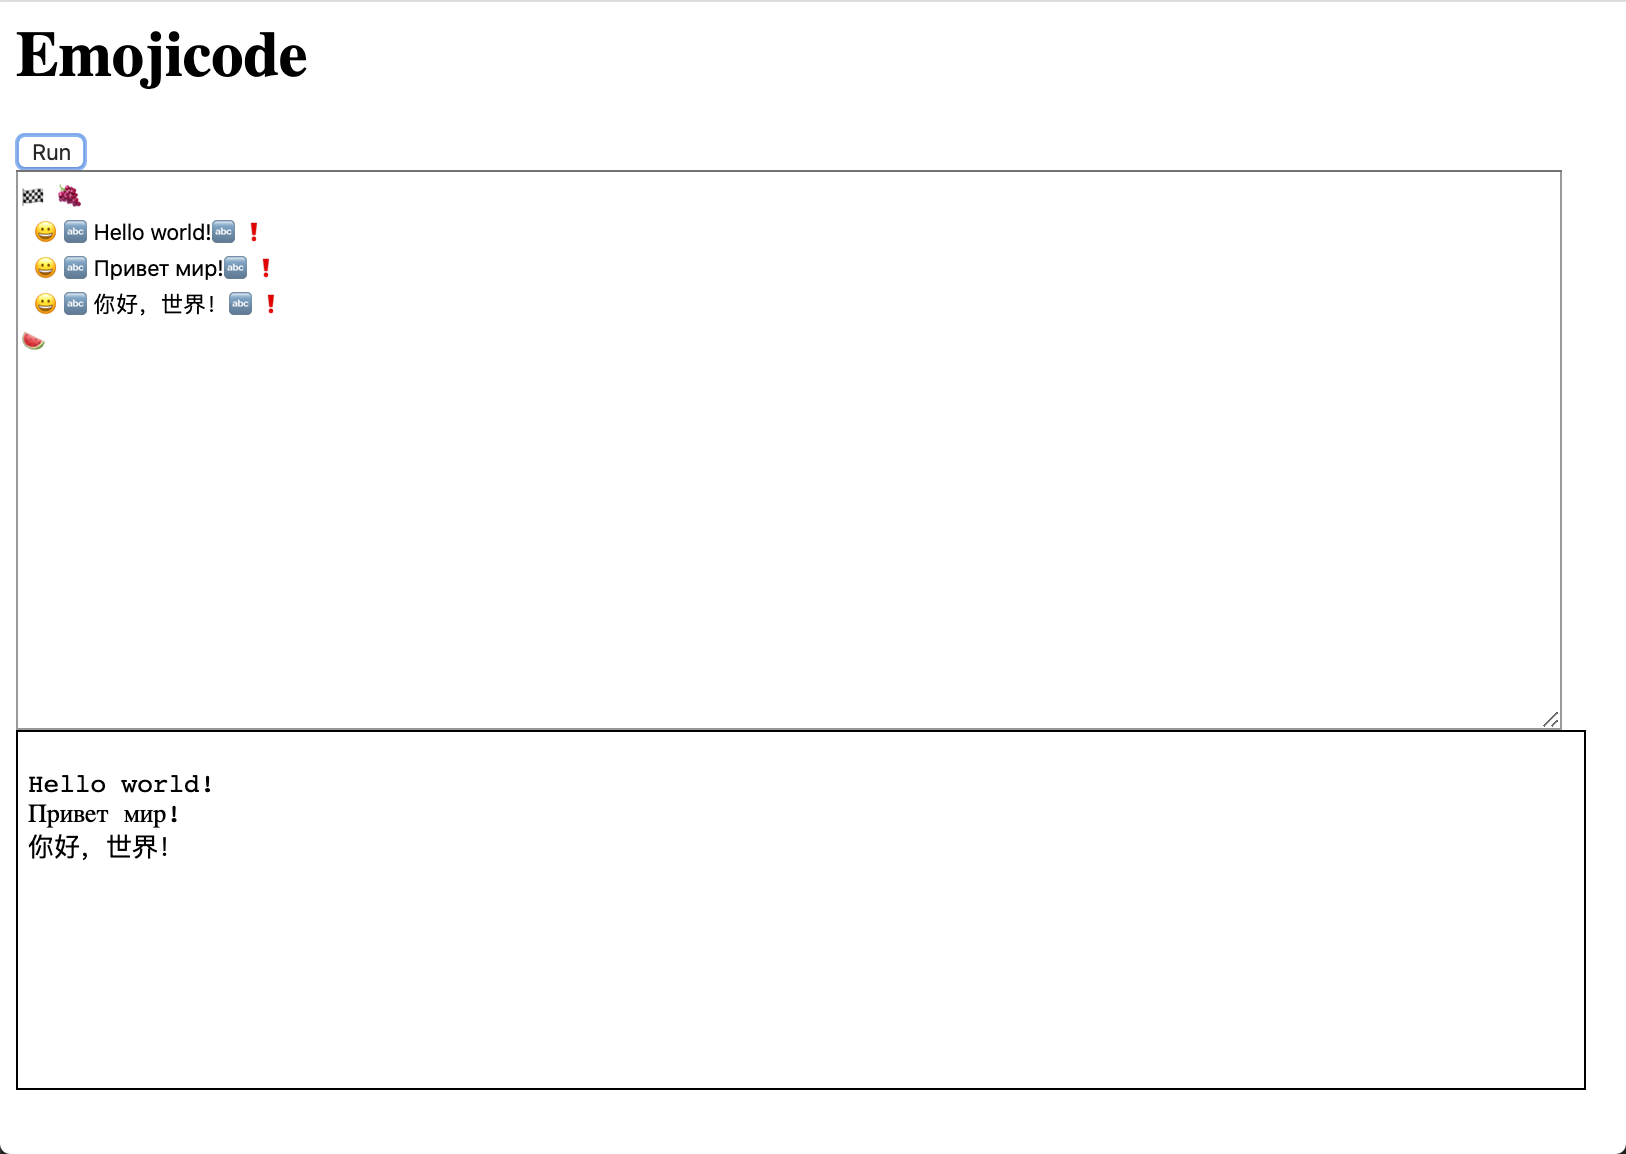
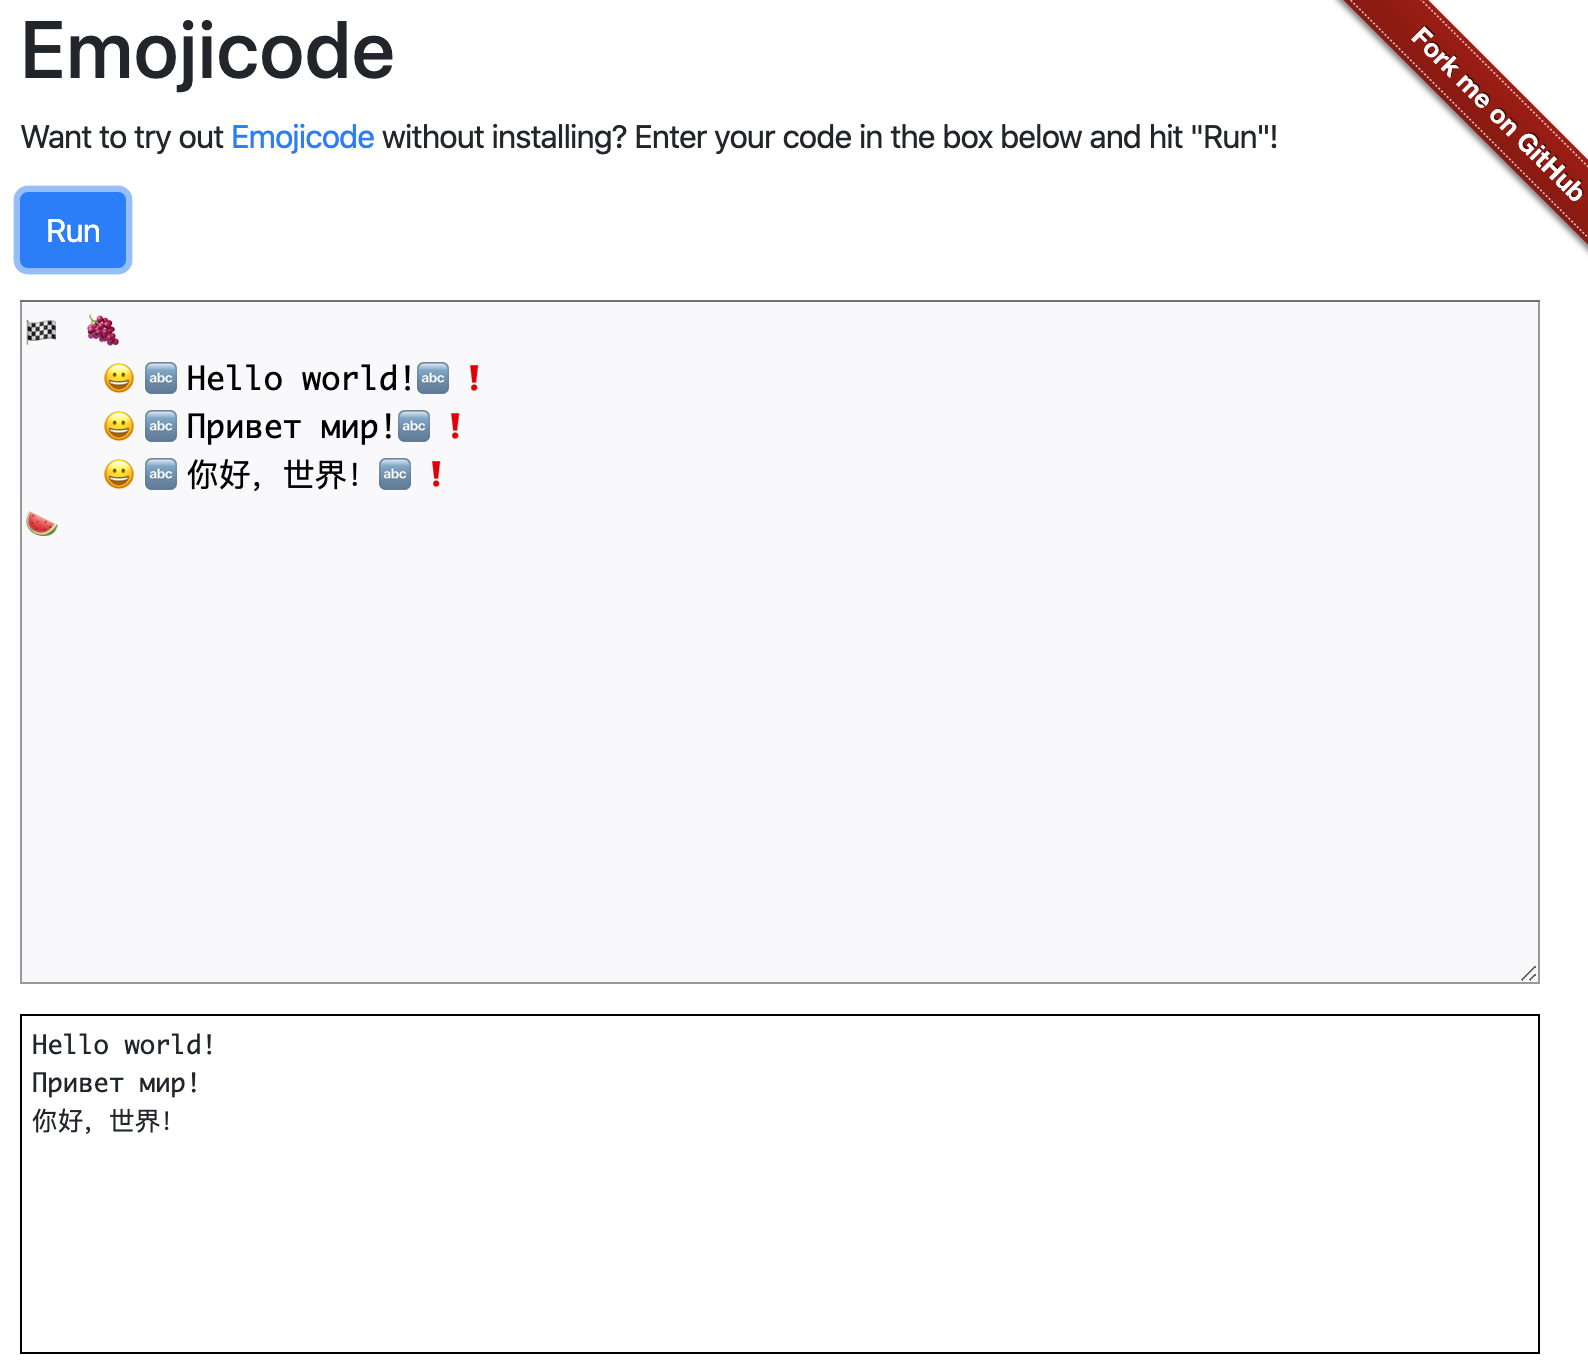
Use Bootstrap for styling.
Update screenshot for README.

Bump to version 0.1.2.

diff --git a/static/index.html b/static/index.html
@@ -1,50 +1,103 @@
 <html>
 <head>
     <title>Emojicode Playground</title>
+    <link rel="stylesheet" href="https://maxcdn.bootstrapcdn.com/bootstrap/4.0.0/css/bootstrap.min.css" integrity="sha384-Gn5384xqQ1aoWXA+058RXPxPg6fy4IWvTNh0E263XmFcJlSAwiGgFAW/dAiS6JXm" crossorigin="anonymous">
     <link rel="stylesheet" href="https://cdnjs.cloudflare.com/ajax/libs/github-fork-ribbon-css/0.2.3/gh-fork-ribbon.min.css" />
-    <script src="https://ajax.googleapis.com/ajax/libs/jquery/3.4.1/jquery.min.js"></script>
-    <script language="javascript">
-        function run() {
-            console.log("Sending execution request");
-            var data = $('textarea#code').val();
-            $("#output").empty();
-            $("#output").append("<p>Waiting for output</p>"); 
-            $.ajax({
-                url: '/execute',
-                type: 'POST',
-                contentType: false,
-                data: data,
-                dataType: 'text',
-                success: function (r) {
-                    console.log("Execution completed successfully");
-                    $("#output").empty();
-                    $("#output").append("<pre>" + r + "</pre>"); 
-                },
-                error: function(data,status,err) {
-                    console.log("Execution failed");
-                    $("#output").empty();
-                    $("#output").append("<p>Error:</p>");
-                    $("#output").append("<pre>" + data.responseText + "</pre>");
-                    console.log(data);
-                },
-            });
+    <style>
+        .error {
+            color: red;
+            font-weight: bold;
         }
-    </script>
+
+        .code {
+            font-family: Roboto Mono,Monaco,monospace;
+            background-color: #f9f9fb;
+        }
+        
+        pre {
+            font-family: Roboto Mono,Monaco,monospace;
+        }
+    </style>
 </head>
 <body>
     <a class="github-fork-ribbon" href="http://github.com/theothertomelliott/emojicode-playground" data-ribbon="Fork me on GitHub" title="Fork me on GitHub">Fork me on GitHub</a>
-    <h1>Emojicode</h1>
-    <p>Want to try out <a href="https://www.emojicode.org/" target="_blank">Emojicode</a> without installing? Enter your code in the box below and hit "Run"!</p>
-    <div>
-        <button id="run" onclick="javascript: run();">Run</button>
-    </div>
-    <br/>
-    <textarea id="code" style="height: 50%; width: 97%" autocorrect="off" autocomplete="off" autocapitalize="off" spellcheck="false" wrap="off">🏁 🍇
-  😀🔤Hello world!🔤❗
-  😀🔤Привет мир!🔤❗
-  😀🔤你好，世界！🔤❗
+
+    <div class="container-fluid">
+        <h1>Emojicode</h1>
+        <div class="row">
+            <div class="col col-md-12">
+                <p>Want to try out <a href="https://www.emojicode.org/" target="_blank">Emojicode</a> without installing? Enter your code in the box below and hit "Run"!</p>
+                <div>
+                    <button id="run" class="btn btn-primary" onclick="javascript: run();">Run</button>
+                </div>
+            </div>
+        </div>
+        <div class="my-3"></div>
+        <div class="row" style="height: 50%;">
+            <div class="col col-md-12">
+                <textarea 
+                    class="code"
+                    id="code" 
+                    style="height: 100%; width:97%;" 
+                    autocorrect="off" 
+                    autocomplete="off" 
+                    autocapitalize="off" 
+                    spellcheck="false" 
+                    wrap="off"
+                >🏁 🍇
+    😀🔤Hello world!🔤❗
+    😀🔤Привет мир!🔤❗
+    😀🔤你好，世界！🔤❗
 🍉</textarea>
-<div id="output" style="border: 1px solid black; padding: 5px; height:30%; width: 97%">
-</div>
+            </div>
+        </div>
+        <div class="my-3"></div>
+        <div 
+            class="row"
+            style="height:25%;"
+        >
+            <div 
+                class="col col-md-12"
+            >
+            <div
+                id="output"
+                class="output"
+                style="border: 1px solid black; padding: 5px; height: 100%; width:97%; overflow: scroll; font-family: Menlo, monospace; font-size: 11pt;"
+            ></div>
+            </div>
+        </div>
+    </div>
+
+<script src="https://ajax.googleapis.com/ajax/libs/jquery/3.4.1/jquery.min.js"></script>
+<script src="https://cdnjs.cloudflare.com/ajax/libs/popper.js/1.12.9/umd/popper.min.js" integrity="sha384-ApNbgh9B+Y1QKtv3Rn7W3mgPxhU9K/ScQsAP7hUibX39j7fakFPskvXusvfa0b4Q" crossorigin="anonymous"></script>
+<script src="https://maxcdn.bootstrapcdn.com/bootstrap/4.0.0/js/bootstrap.min.js" integrity="sha384-JZR6Spejh4U02d8jOt6vLEHfe/JQGiRRSQQxSfFWpi1MquVdAyjUar5+76PVCmYl" crossorigin="anonymous"></script>
+<script language="javascript">
+    function run() {
+        console.log("Sending execution request");
+        var data = $('textarea#code').val();
+        $("#output").empty();
+        $("#output").append("<p>Waiting for output</p>"); 
+        $.ajax({
+            url: '/execute',
+            type: 'POST',
+            contentType: false,
+            data: data,
+            dataType: 'text',
+            success: function (r) {
+                console.log("Execution completed successfully");
+                $("#output").empty();
+                $("#output").append("<pre>" + r + "</pre>"); 
+            },
+            error: function(data,status,err) {
+                console.log("Execution failed");
+                $("#output").empty();
+                $("#output").append("<p class='error'>Error:</p>");
+                $("#output").append("<pre>" + data.responseText + "</pre>");
+                console.log(data);
+            },
+        });
+    }
+</script>
+
 </body>
 </html>
